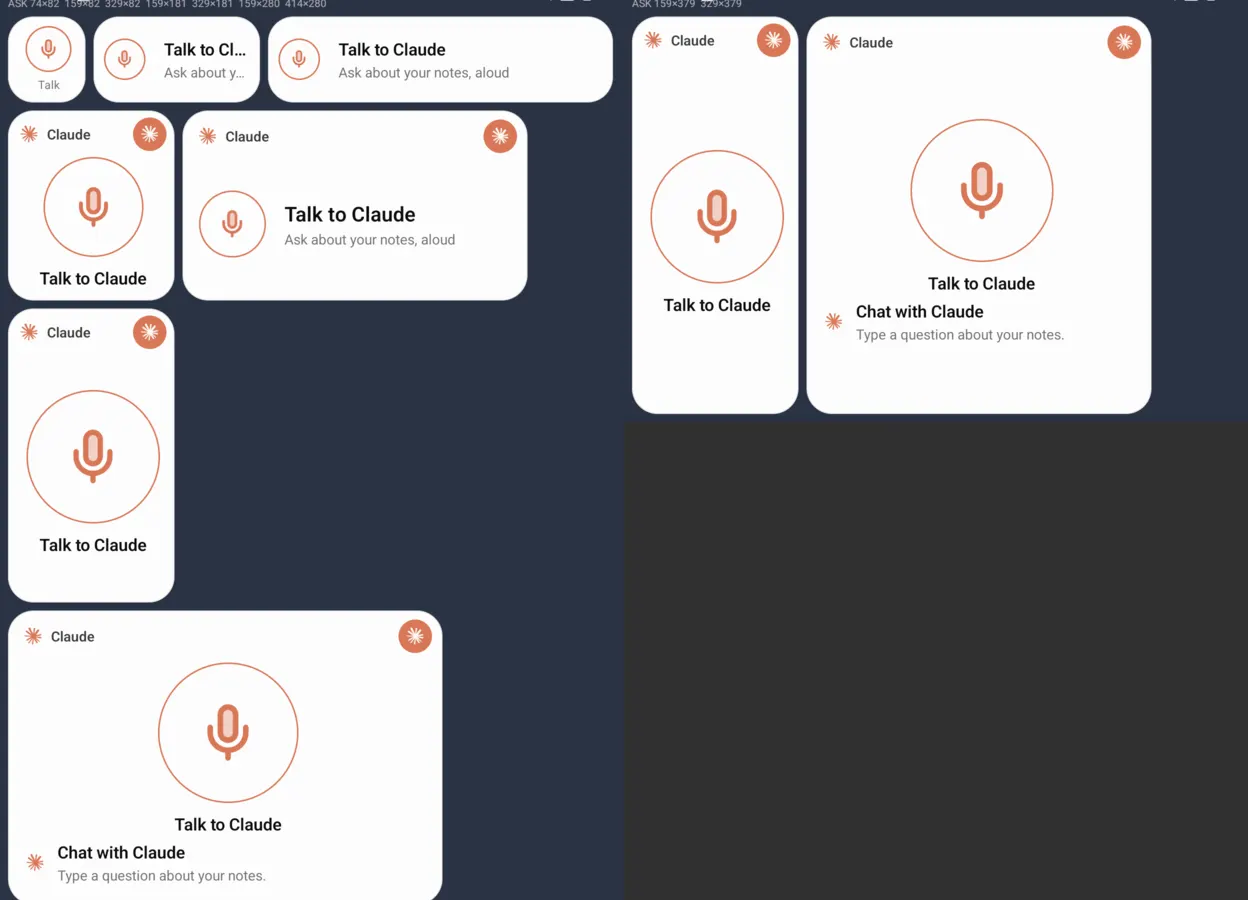
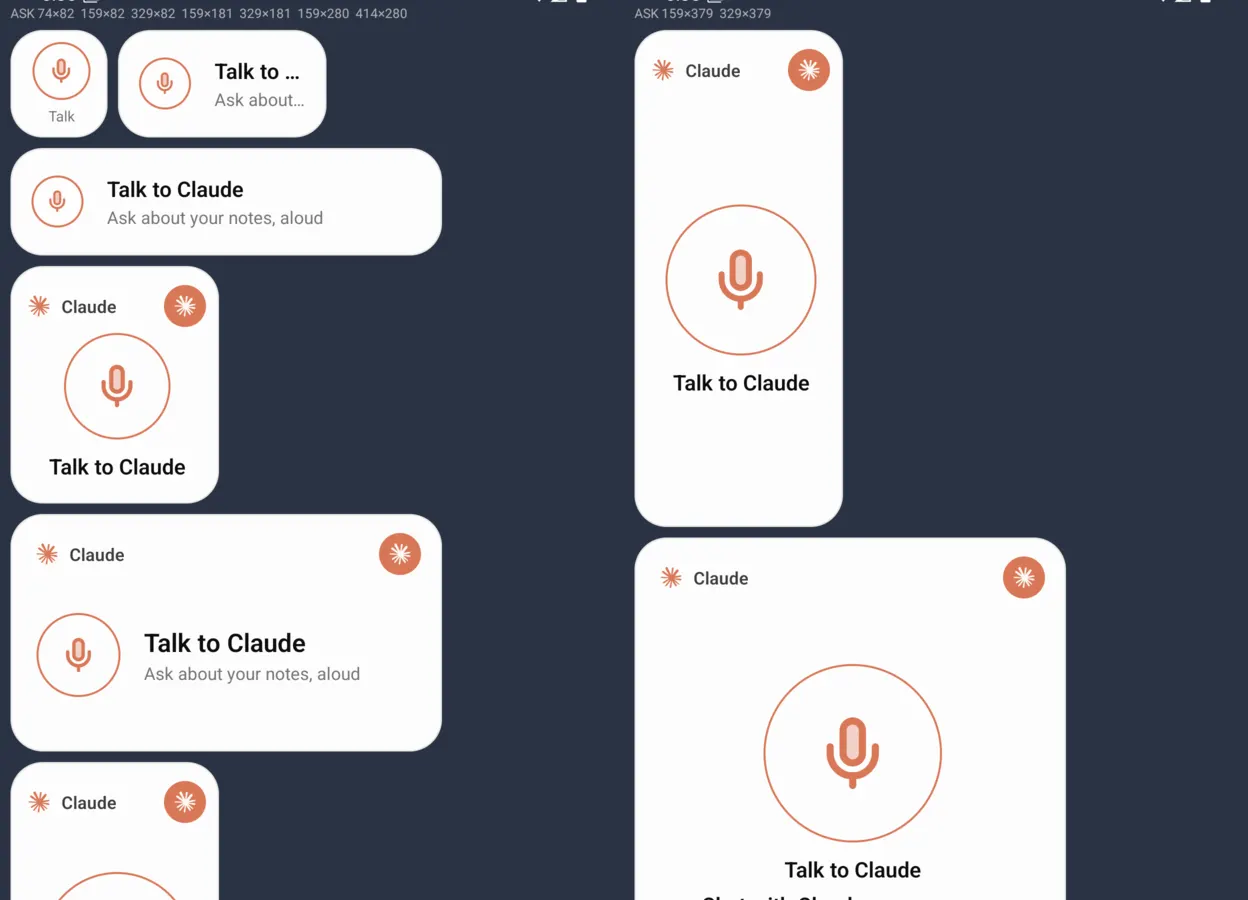
The widgets keep their content off the launcher's edge (Matt, 2026-10-21: "Add a bit more padding to the widgets stuff is too edge to edge"): the frame's padding is 20dp at the start, 14dp above and below and 16dp at the end, where it was 16, 8, 10 and 6 (WidgetViews PAD_*, FRAME_DP from them); a co

diff --git a/android/app/src/main/kotlin/com/mattssoftware/ghost_md/home/WidgetViews.kt b/android/app/src/main/kotlin/com/mattssoftware/ghost_md/home/WidgetViews.kt
@@ -51,8 +51,18 @@ import java.util.Locale
  * nothing asked of the app. Before 12, the size the widget says it is in this orientation.
  */
 object WidgetViews {
-  // The frame's own room, in dp (layout/ghost_w_frame.xml): its padding above and below and its heading.
-  internal const val FRAME_DP = 14 + 34
+  // The frame's padding, in dp (layout/ghost_w_frame.xml), kept off the launcher's edge by a margin you can see (Matt,
+  // 2026-10-21: "Add a bit more padding to the widgets stuff is too edge to edge").
+  internal const val PAD_START = 20
+  internal const val PAD_TOP = 14
+  internal const val PAD_END = 16
+  internal const val PAD_BOTTOM = 14
+
+  /** What a widget with no heading keeps at its edges besides the room it asks for ([headless]). */
+  internal const val INSET = 6
+
+  // The frame's own room, in dp: its padding above and below and its heading.
+  internal const val FRAME_DP = PAD_TOP + PAD_BOTTOM + 34
   internal const val MORE_DP = 18
   internal const val EYEBROW_DP = 22
   internal const val TODO_DP = 48
@@ -138,7 +148,7 @@ object WidgetViews {
     views.setViewVisibility(R.id.ghost_w_head, View.VISIBLE)
     views.setViewVisibility(R.id.ghost_w_action, View.VISIBLE)
     views.setViewVisibility(R.id.ghost_w_col_b, View.GONE)
-    views.setViewPadding(R.id.ghost_w_root, dp(context, 16), dp(context, 8), dp(context, 10), dp(context, 6))
+    views.setViewPadding(R.id.ghost_w_root, dp(context, PAD_START), dp(context, PAD_TOP), dp(context, PAD_END), dp(context, PAD_BOTTOM))
     views.setInt(R.id.ghost_w_root, "setGravity", Gravity.TOP or Gravity.START)
     views.setInt(R.id.ghost_w_body, "setGravity", Gravity.TOP or Gravity.START)
     views.setInt(R.id.ghost_w_col_a, "setGravity", Gravity.TOP or Gravity.START)
@@ -148,13 +158,13 @@ object WidgetViews {
 
   /** A narrow widget (two cells across) keeps less room at its sides, so its rows have more. */
   internal fun narrowed(context: Context, views: RemoteViews) {
-    views.setViewPadding(R.id.ghost_w_root, dp(context, 12), dp(context, 6), dp(context, 8), dp(context, 6))
+    views.setViewPadding(R.id.ghost_w_root, dp(context, PAD_START - 6), dp(context, PAD_TOP), dp(context, PAD_END - 6), dp(context, PAD_BOTTOM))
   }
 
   /** No heading: a widget a cell high, or one whose own top is its heading (Search's field), gives it all to its rows. */
-  internal fun headless(context: Context, views: RemoteViews, sides: Int = 12, ends: Int = 4) {
+  internal fun headless(context: Context, views: RemoteViews, sides: Int = 12, ends: Int = 4, inset: Int = INSET) {
     views.setViewVisibility(R.id.ghost_w_head, View.GONE)
-    views.setViewPadding(R.id.ghost_w_root, dp(context, sides), dp(context, ends), dp(context, sides - 4), dp(context, ends))
+    views.setViewPadding(R.id.ghost_w_root, dp(context, sides + inset), dp(context, ends + inset), dp(context, sides - 4 + inset), dp(context, ends + inset))
   }
 
   /** The line under a list for the [left] rows that did not fit (none: gone), a tap [link]: the app, or the note. */
@@ -212,7 +222,7 @@ object WidgetViews {
     link: PendingIntent?,
     said: String = label,
   ): RemoteViews {
-    headless(context, views, sides = 6, ends = 4)
+    headless(context, views, sides = 6, ends = 4, inset = 4)
     val tile = RemoteViews(context.packageName, R.layout.ghost_w_tile)
     tile.setViewVisibility(R.id.ghost_w_tile_ring, if (icon != null) View.VISIBLE else View.GONE)
     if (icon != null) {
@@ -259,7 +269,7 @@ object WidgetViews {
   internal fun roomFor(context: Context, views: RemoteViews, tall: Int, need: Int): Int {
     if (room(tall) >= need) return room(tall)
     headless(context, views, sides = 12, ends = 4)
-    return tall - 8
+    return tall - 8 - 2 * INSET
   }
 
   /** A row's height at the phone's text size: its words grow, so it does. */
@@ -336,8 +346,8 @@ object WidgetViews {
         // only where it still leaves the ring the dock's size and more.
         val words = scaled(context, if (mic.line.isEmpty()) 30 else 44) + reserve
         if (room(tall) - words < 72) headless(context, views, sides = 12, ends = 6)
-        val left = (if (room(tall) - words < 72) tall - 12 else room(tall)) - words
-        val ring = minOf(wide - 32, left - 8, 136).coerceAtLeast(44)
+        val left = (if (room(tall) - words < 72) tall - 12 - 2 * INSET else room(tall)) - words
+        val ring = minOf(wide - 44, left - 8, 136).coerceAtLeast(44)
         sized(hero, R.id.ghost_w_voice_ring, ring)
         sized(hero, R.id.ghost_w_voice_icon, ring * 7 / 16)
         used = ring + words + 8
@@ -428,7 +438,7 @@ object WidgetViews {
       parts.addAll(items)
     }
     // In a column a to-do's words take two lines where they need them, and its row the room they make.
-    val perRow = ((wide - 66) / (16.2f * 0.47f * context.resources.configuration.fontScale.coerceAtLeast(1f))).toInt().coerceAtLeast(8)
+    val perRow = ((wide - 76) / (16.2f * 0.47f * context.resources.configuration.fontScale.coerceAtLeast(1f))).toInt().coerceAtLeast(8)
     val small = scaled(context, COMPACT_DP)
     val filled = HomeData.fill(
       room,

diff --git a/android/app/src/main/kotlin/com/mattssoftware/ghost_md/home/MoreWidgetViews.kt b/android/app/src/main/kotlin/com/mattssoftware/ghost_md/home/MoreWidgetViews.kt
@@ -131,7 +131,7 @@ object MoreWidgetViews {
         narrowed(context, views)
         val heading = tall >= 300
         if (!heading) headless(context, views, sides = 10, ends = 6)
-        val room = if (heading) room(tall) else tall - 12
+        val room = if (heading) room(tall) else tall - 12 - 2 * WidgetViews.INSET
         for (capture in captures.take((room / scaled(context, 46)).coerceIn(1, captures.size))) views.addView(R.id.ghost_w_col_a, stackRow(context, capture, hint = false))
       }
       Fit.MEDIUM -> views.addView(R.id.ghost_w_col_a, ringRow(context, captures.take(if (wide >= WidgetViews.TWO_COLUMNS_DP) 6 else 4), words = true))
@@ -173,9 +173,9 @@ object MoreWidgetViews {
   private fun heightOf(context: Context, line: HomeData.Line, wide: Int, most: Int = 2): Int {
     val rows = HomeData.rowsFor(line.words.length + if (line.kind == "bullet") 2 else 0, perRow(context, wide - 30 - line.depth * 14), most)
     return when (line.kind) {
-      "heading" -> scaled(context, 26)
-      "todo", "done" -> maxOf(CHECK_DP, scaled(context, rows * 18 + 10))
-      else -> maxOf(LINE_DP, scaled(context, rows * 18 + 6))
+      "heading" -> scaled(context, 28)
+      "todo", "done" -> maxOf(CHECK_DP, scaled(context, rows * 21 + 10))
+      else -> maxOf(LINE_DP, scaled(context, rows * 21 + 6))
     }
   }
 
@@ -298,7 +298,7 @@ object MoreWidgetViews {
       val compact = fit == Fit.NARROW || fit == Fit.MEDIUM
       val small = scaled(context, COMPACT_DP)
       val each = HomeData.Part(if (compact) small else scaled(context, NOTE_DP), small)
-      val fill = HomeData.fill(tall - 20 - 44, listOf(HomeData.Part(scaled(context, EYEBROW_DP), heading = true)) + rows.map { each }, scaled(context, MORE_DP))
+      val fill = HomeData.fill(tall - 20 - 2 * WidgetViews.INSET - 44, listOf(HomeData.Part(scaled(context, EYEBROW_DP), heading = true)) + rows.map { each }, scaled(context, MORE_DP))
       if (fill.shown > 1) {
         filled = fill
         val shown = rows.take(fill.shown - 1).mapIndexed { index, row -> (if (compact || fill.compact(index + 1)) WidgetViews.compactRow(context, row) else WidgetViews.noteRow(context, row, now)) to false }
@@ -359,7 +359,7 @@ object MoreWidgetViews {
       Fit.NARROW -> narrowed(context, views)
       else -> {}
     }
-    if (page != null) linesInto(context, views, page, room(tall), if (fit == Fit.NARROW) wide - 20 else wide - 26, scaled(context, MORE_DP), opened) else more(context, views, 0)
+    if (page != null) linesInto(context, views, page, room(tall), if (fit == Fit.NARROW) wide - 24 else wide - 36, scaled(context, MORE_DP), opened) else more(context, views, 0)
     empty(
       context,
       views,

diff --git a/docs/WIDGETS_ANDROID.md b/docs/WIDGETS_ANDROID.md
@@ -164,7 +164,11 @@ ground is the whole of what the launcher gives, edge to edge (the gaps between w
 columns are the body's whole height, so what is in them is placed in it: lists fill it to the bottom (below), a
 microphone's ring grows with its room (`setViewLayoutWidth`, Android 12), Quick capture's rings share the width and its
 stack the height, and one thing alone (Next up's, a microphone) sits in the middle of the room rather than at its top.
-A heading's padding is the frame's only inset.
+The ground is edge to edge, but what is on it is kept off the edge (Matt, 2026-10-21: "Add a bit more padding to the
+widgets stuff is too edge to edge"): the frame's padding is 20dp at the start, 14dp above and below and 16dp at the end
+(WidgetViews `PAD_*`, the round button's own ring sitting in the last of it); a column two cells across 14dp and 10dp
+at its sides, so a due chip still fits beside the tick; a widget with no heading its own room plus `INSET` (6dp) each
+way, and a 1×1 tile 4dp more. Every room a list is fitted into is counted with them, so nothing is clipped at the foot.
 
 **How a list fills its height** (HomeData.fill, held by HomeDataTest; every list: To-dos, Calendar, Recent notes,
 Pinned notes, A folder, Today, A note, Search's notes, Voice note's recordings, Next up's rest). Each row's height is
